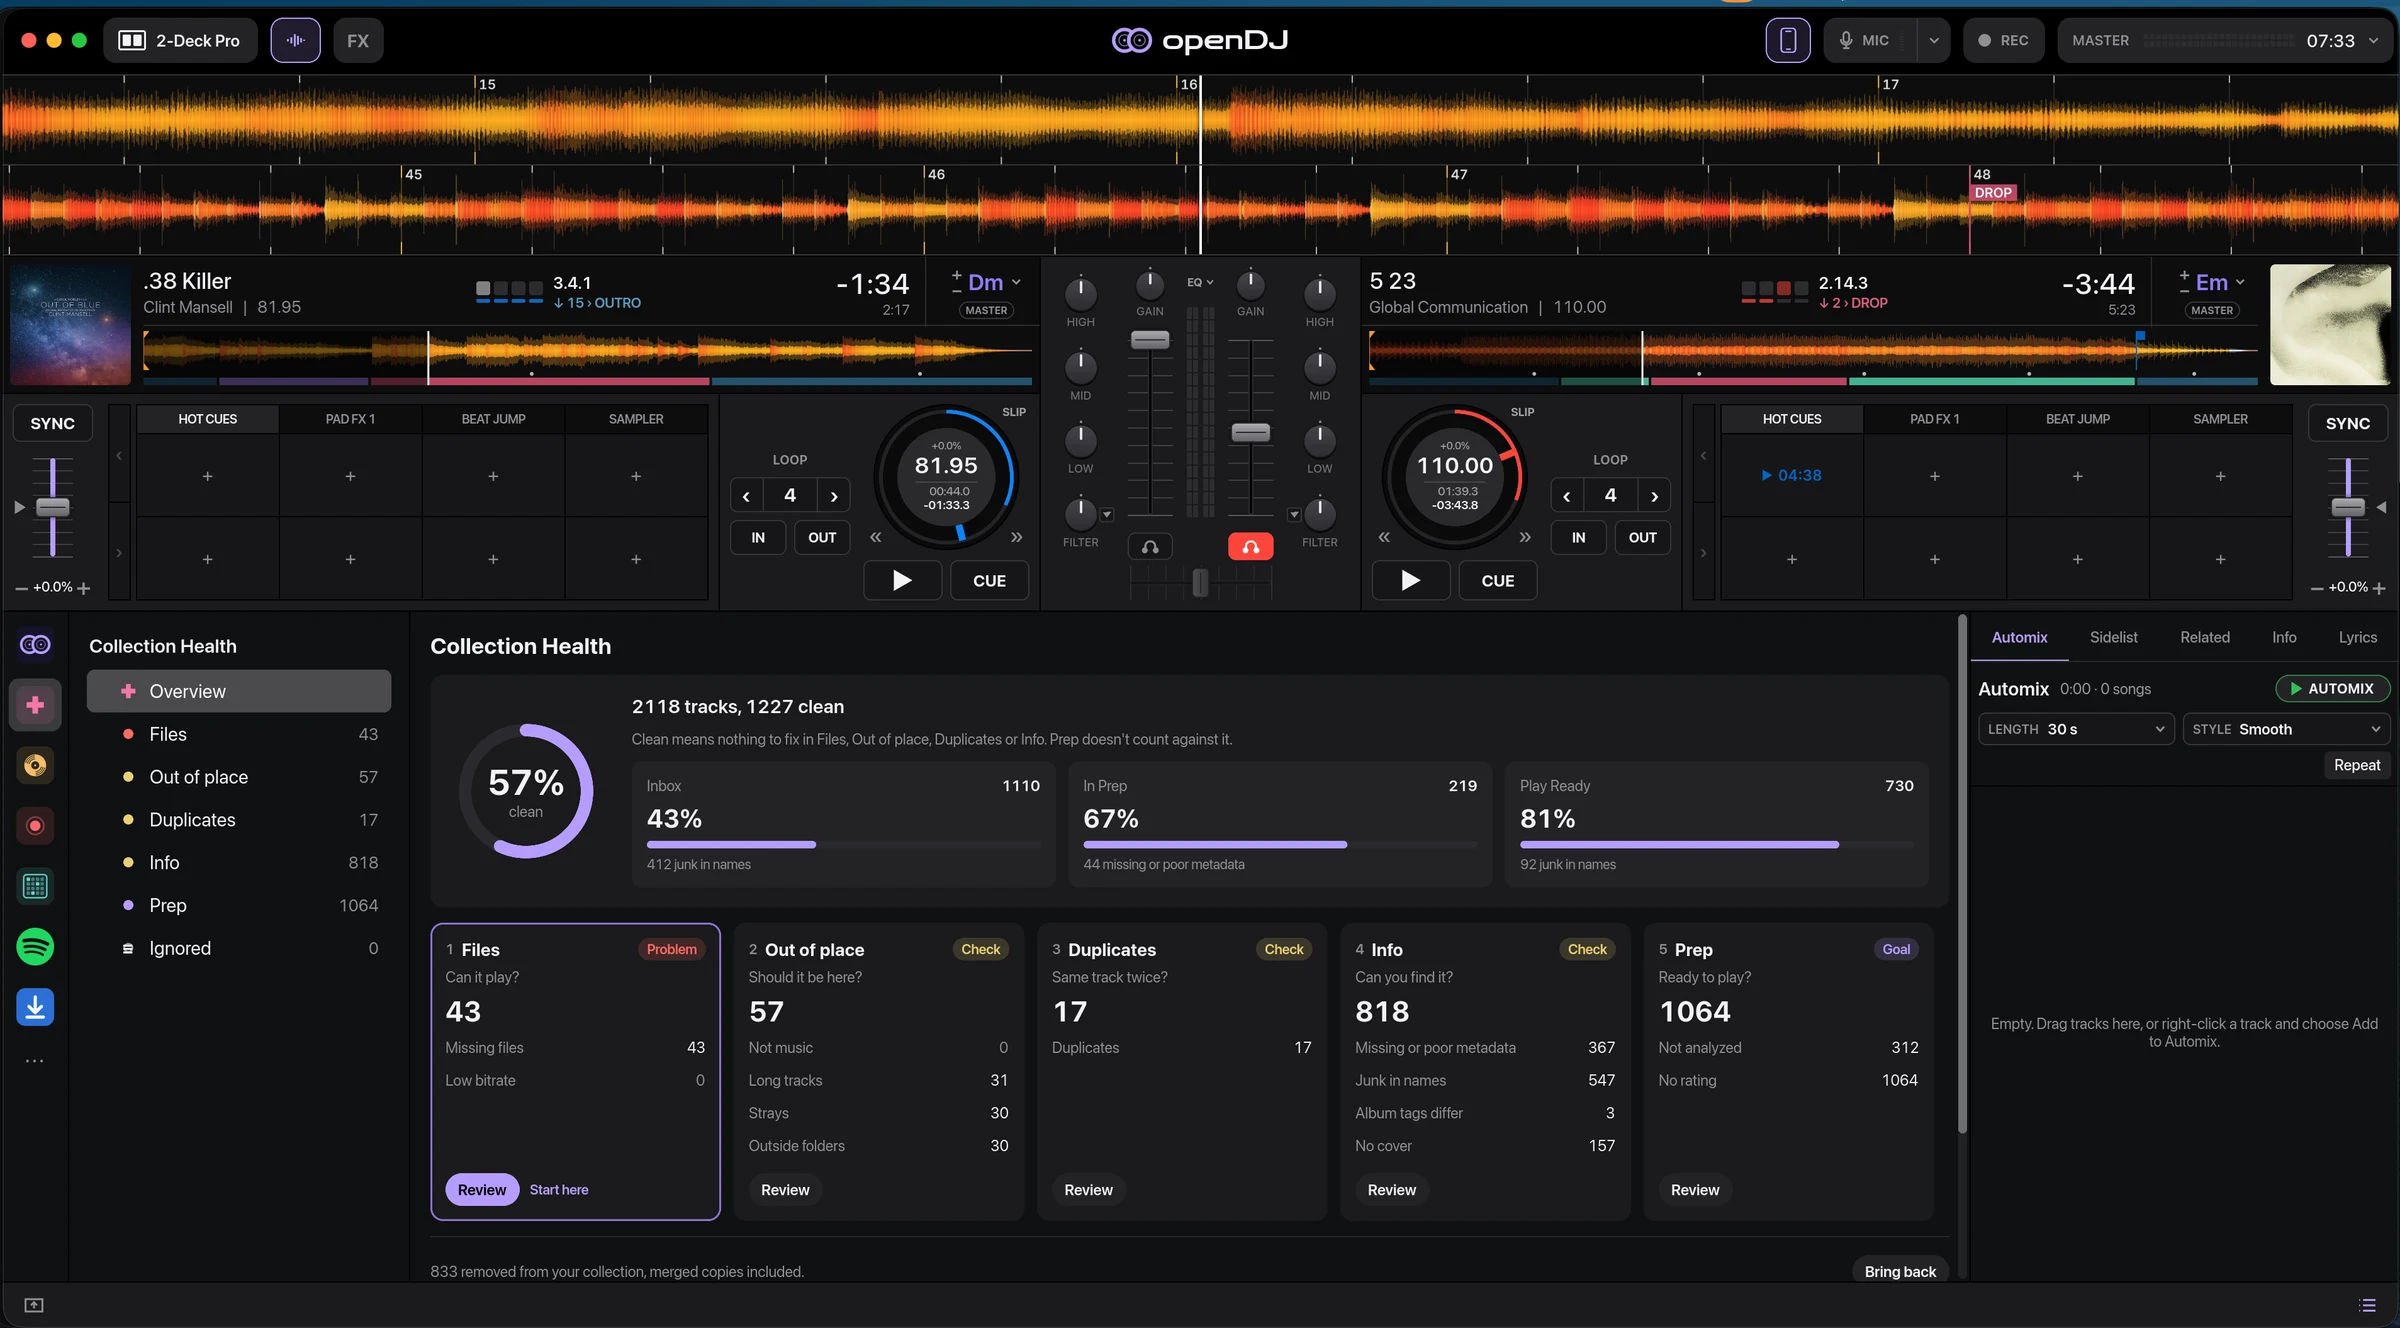
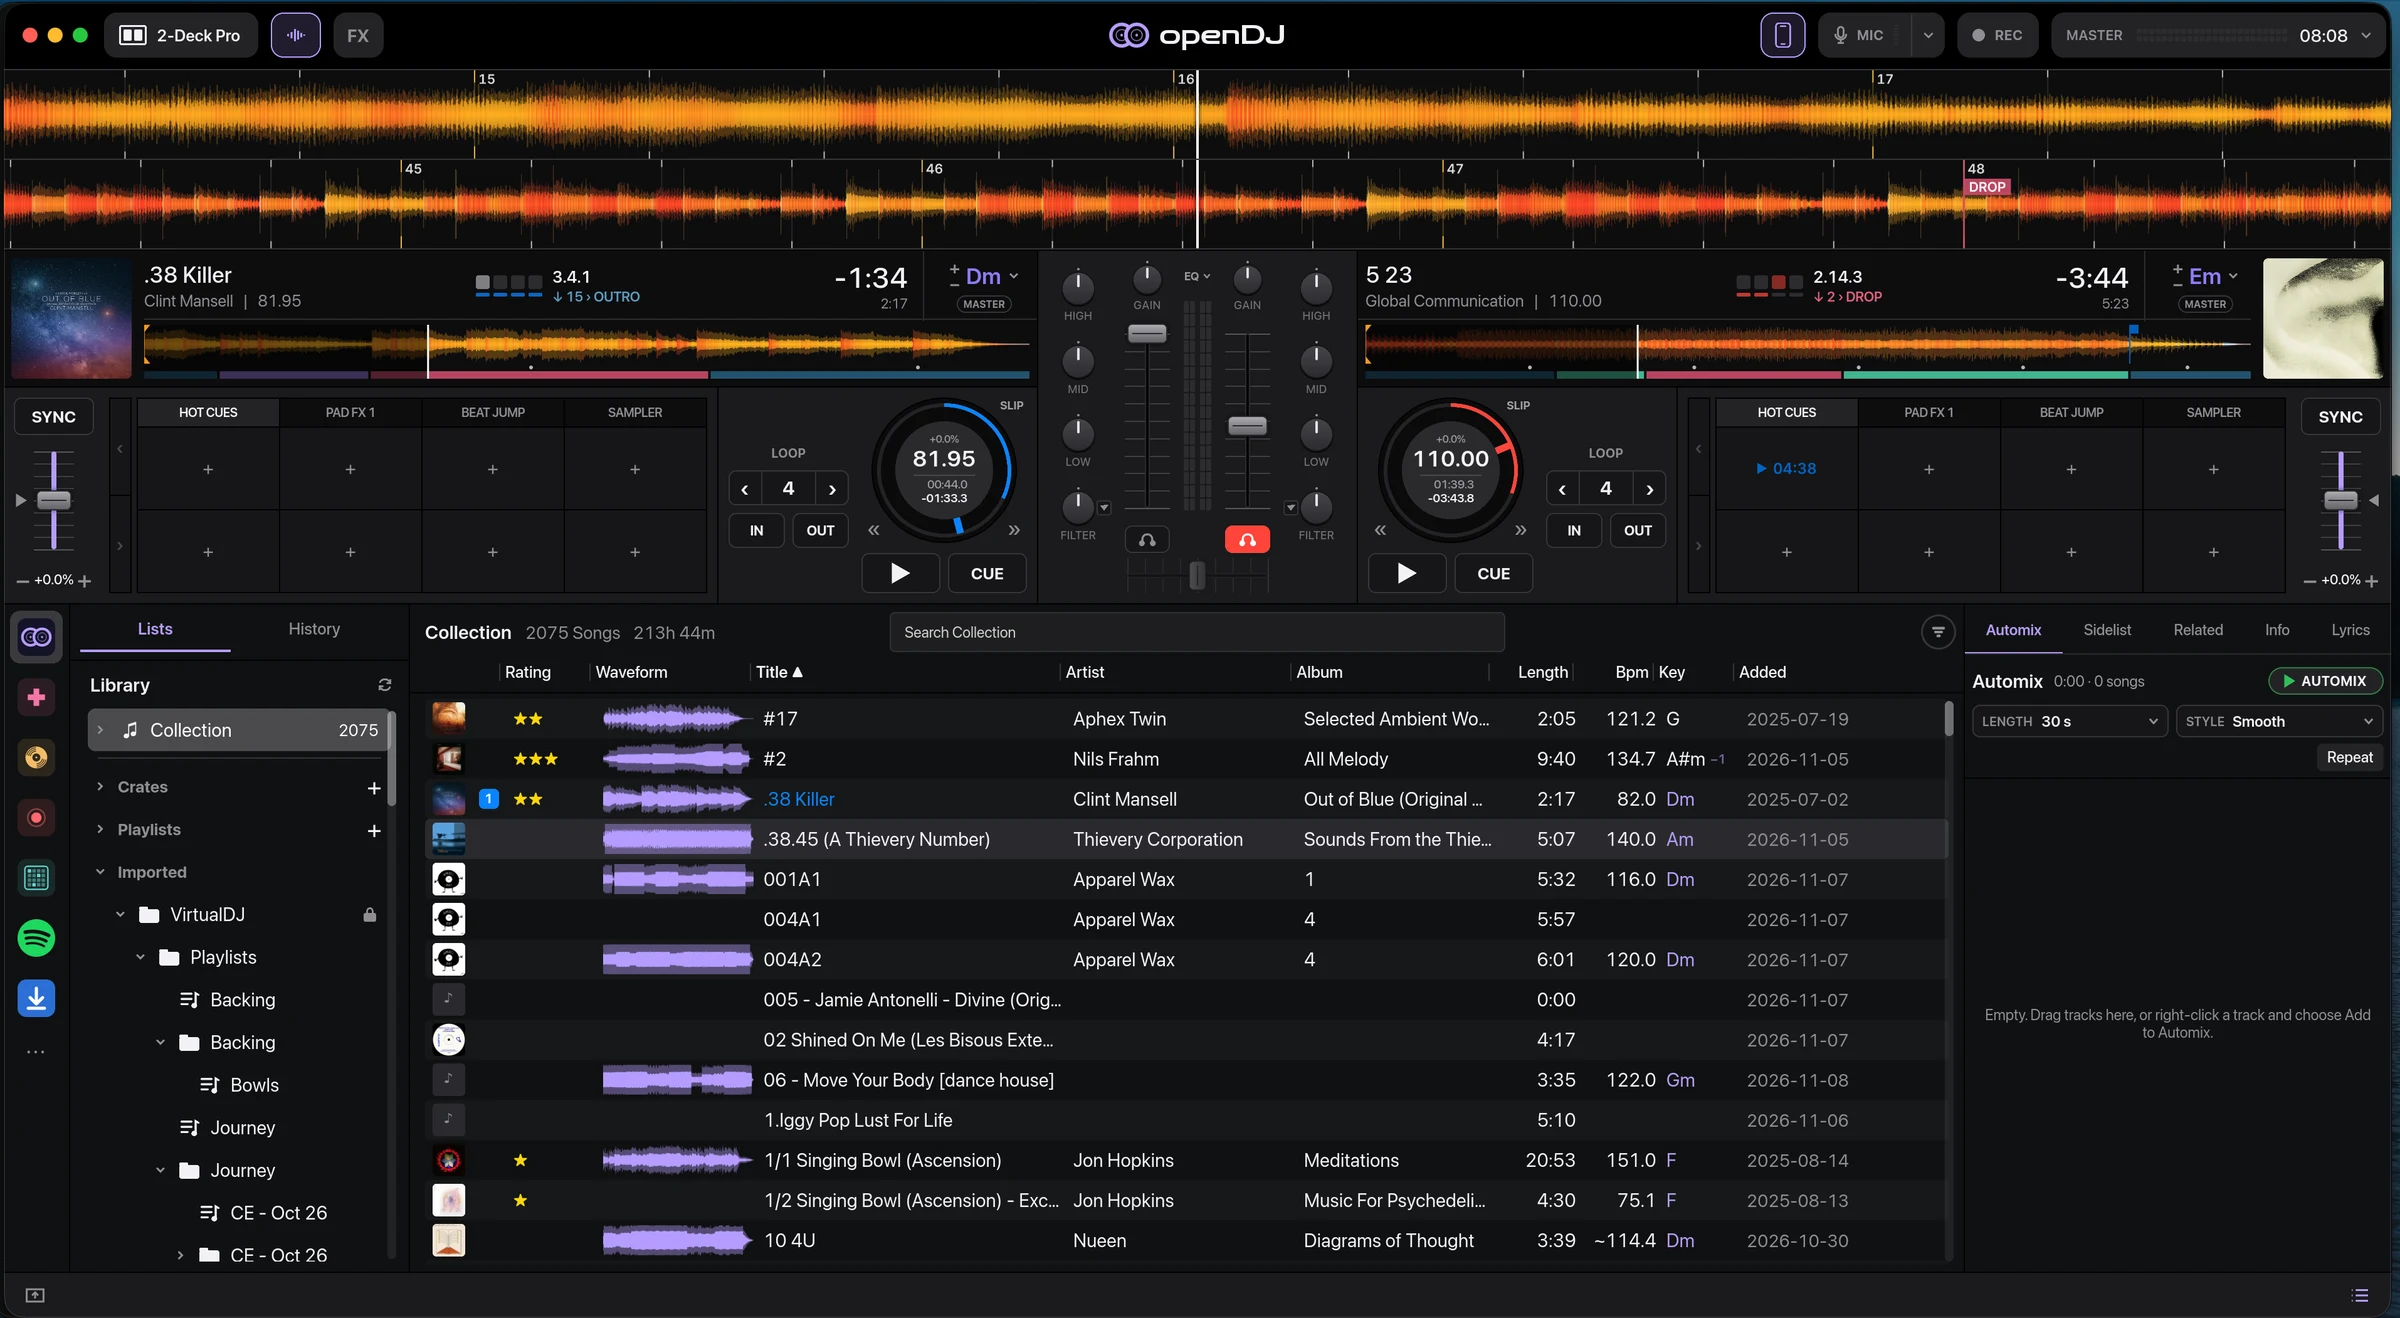
Website: 2-Deck Pro screenshot with the collection
Part of #618

Claude-Session: https://claude.ai/code/session_01SxHh7emHYK1HX484mEx9JK

diff --git a/website/index.html b/website/index.html
@@ -47,7 +47,7 @@
         <p class="thanks">openDJ grew out of <a href="https://mixxx.org">Mixxx</a>, the long-running open-source DJ project, and still runs its controller mappings. Many thanks to the Mixxx developers and community.</p>
         <p class="cta"><a class="btn btn-primary" data-download-primary href="#download">Download openDJ</a> <span class="small muted" data-version>macOS · Windows · Linux</span></p>
       </div>
-      <a class="intro-shot" href="assets/home/hero.webp"><img src="assets/home/hero.webp" width="2400" height="1328" alt="openDJ's 2-Deck Pro layout: two decks under their waveforms, with Collection Health below."></a>
+      <a class="intro-shot" href="assets/home/hero.webp"><img src="assets/home/hero.webp" width="2400" height="1318" alt="openDJ's 2-Deck Pro layout: two decks under their waveforms, with the collection below."></a>
     </section>
 
     <section id="features">
@@ -70,7 +70,7 @@
     <section id="screenshots">
       <h2>Screenshots</h2>
       <div class="gal">
-        <figure><a href="assets/home/hero.webp"><img src="assets/home/hero.webp" width="2400" height="1328" loading="lazy" alt="The 2-Deck Pro layout"></a><figcaption>The 2-Deck Pro layout</figcaption></figure>
+        <figure><a href="assets/home/hero.webp"><img src="assets/home/hero.webp" width="2400" height="1318" loading="lazy" alt="The 2-Deck Pro layout"></a><figcaption>The 2-Deck Pro layout</figcaption></figure>
         <figure><a href="assets/home/jam.webp"><img src="assets/home/jam.webp" width="2400" height="1322" loading="lazy" alt="Jam: the Groove Box and an Arturia Jun-6 V synth on the decks, with the instrument list below"></a><figcaption>Jam: the Groove Box and a plugin synth</figcaption></figure>
         <figure><a href="assets/home/health.webp"><img src="assets/home/health.webp" width="2400" height="1328" loading="lazy" alt="Collection Health"></a><figcaption>Collection Health</figcaption></figure>
         <figure><a href="assets/home/sources.webp"><img src="assets/home/sources.webp" width="1812" height="990" loading="lazy" alt="Browsing Spotify"></a><figcaption>Browsing Spotify</figcaption></figure>
